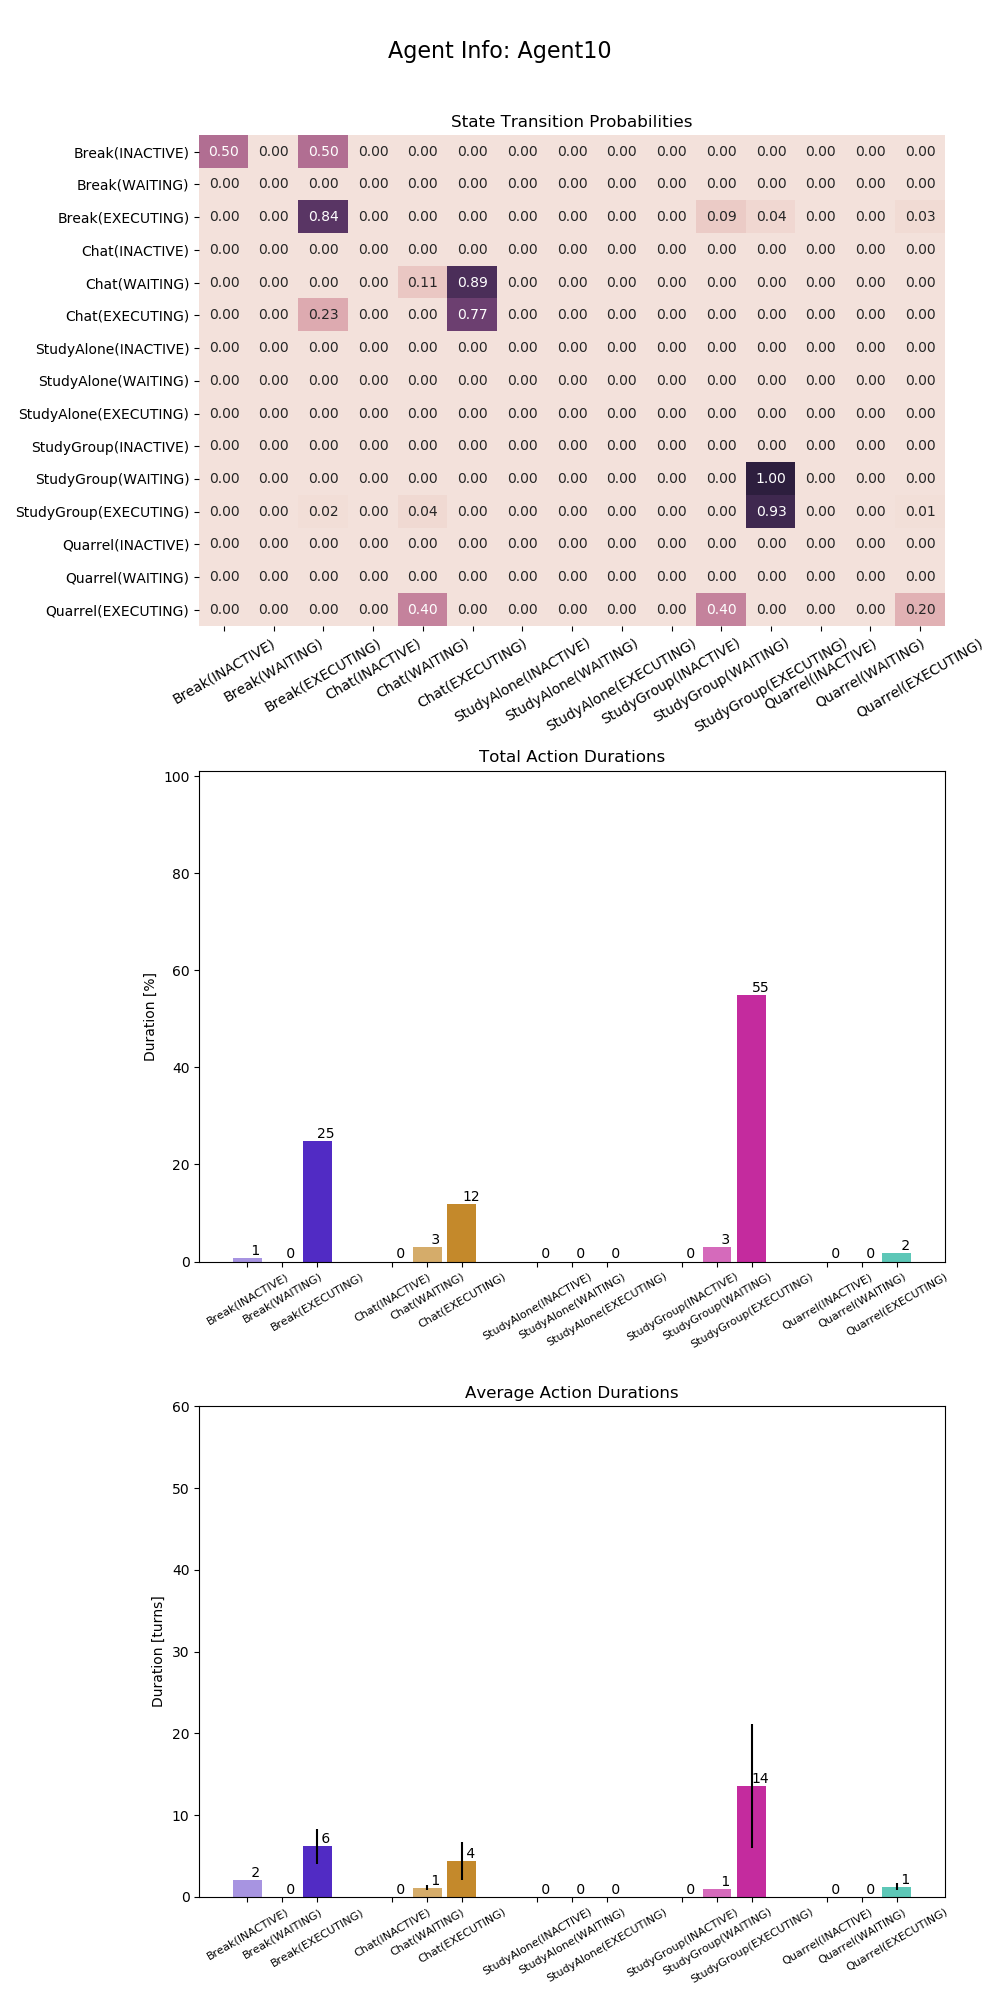
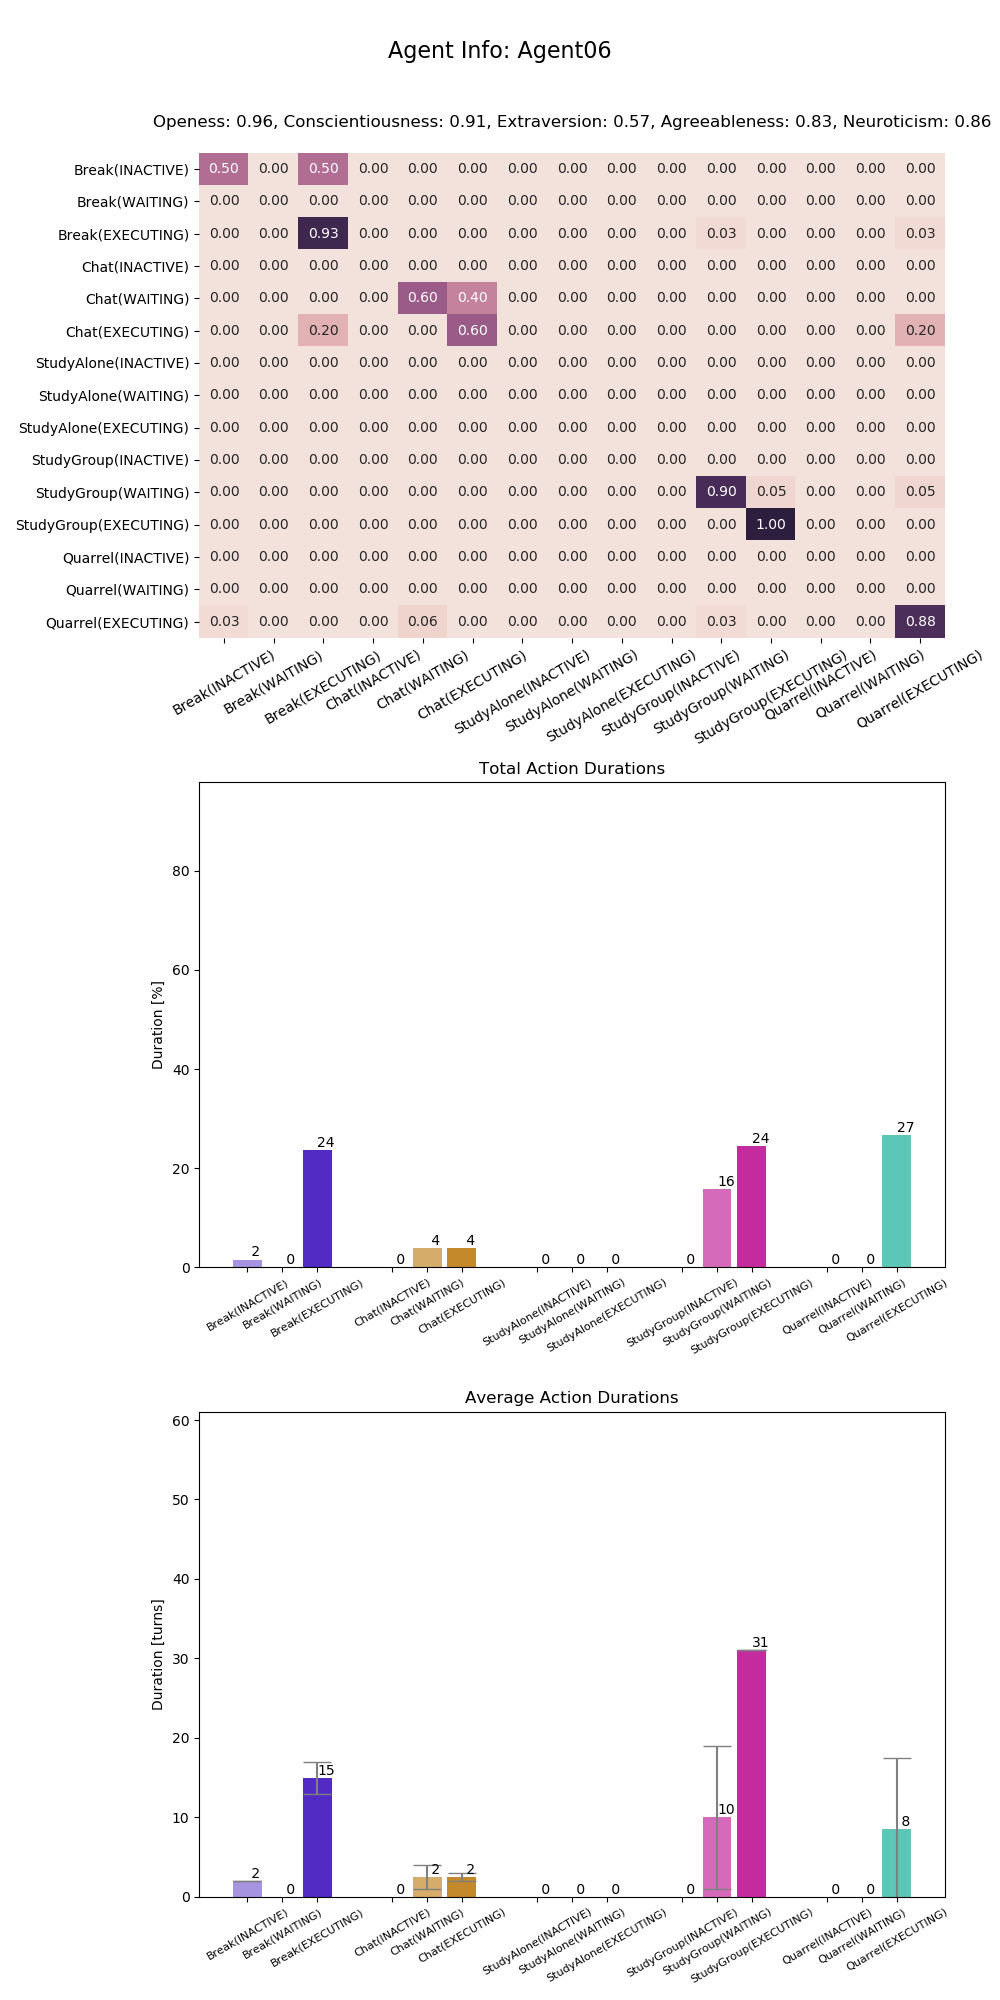
Showing personality in agent info plots. Close #53

diff --git a/tools/generatePlots.py b/tools/generatePlots.py
@@ -31,6 +31,13 @@ def main(argv):
     classroom_stats = pd.read_csv(classroom_stats_file)
     agents_stats = pd.read_csv(agents_stats_file)
 
+    # First line in agent stats are personality traits
+    personalities_df = agents_stats[agents_stats['Turn'] == -1][['Tag', 'Energy', 'Happiness', 'Attention', 'Action', 'Desire']].reset_index(drop=True)
+    personalities_df.rename(columns={'Energy': 'Openess', 'Happiness': 'Conscientiousness', 'Attention': 'Extraversion', 'Action': 'Agreeableness', 'Desire': 'Neuroticism'}, inplace=True)
+    personalities_df.set_index('Tag', inplace=True)
+    personalities = personalities_df.apply(lambda x: ', '.join(['%s: %s'%(k, v) for k, v in x.to_dict().items()]), axis=1)
+    
+
     out = '%s-ClassroomAggregates.png' % project_name
     print('Plot Classroom Aggregates to [%s] ...' % out)
     plotAggregatedStats(classroom_stats, out)
@@ -55,7 +62,7 @@ def main(argv):
     for agent, info in agent_infos.iterrows():
         out = '%s-%s-Stats.png' % (project_name, agent)
         print('Generating Agent Info plot: %s ...' % out)
-        plotAgentInfo(agent, info, out, agentBehaviors, behavior_colors, mean_ylimits=(0.0, max_mean_durations), relative_ylimits=(0.0, max_relative_durations))
+        plotAgentInfo(agent, personalities.loc[agent], info, out, agentBehaviors, behavior_colors, mean_ylimits=(0.0, max_mean_durations), relative_ylimits=(0.0, max_relative_durations))
 
     print('Finished!')
 
@@ -152,7 +159,7 @@ def calculate_duration_info(sequence_durations):
     return relative_duration, mean_durations, mean_durations_std
 
 
-def plotAgentInfo(name, info, output_file, actions, action_colors, mean_ylimits=(0.0, 1.0), relative_ylimits=(0.0, 1.0)):
+def plotAgentInfo(name, personality, info, output_file, actions, action_colors, mean_ylimits=(0.0, 1.0), relative_ylimits=(0.0, 1.0)):
     """
     Generate an Agent Info plot and write it to given location
     """
@@ -168,7 +175,8 @@ def plotAgentInfo(name, info, output_file, actions, action_colors, mean_ylimits=
     generateActionBarsPlot(info['mean_durations'], info['mean_durations_std'], axs[2], actions, action_colors, ylimits=mean_ylimits, title='Average Action Durations', ylabel='Duration [turns]')
 
     # Make sure everything fits into the figure 
-    fig.suptitle('Agent Info: %s' % name, fontsize=16)
+    fig.suptitle('Agent Info: %s' % (name), fontsize=16)
+    axs[0].set_title('%s\n' % personality)
     plt.tight_layout(rect=[0.0, 0.00, 1.0, 1.0-0.05])
     fig.savefig(output_file)
     plt.close(fig)
@@ -202,7 +210,7 @@ def generateActionBarsPlot(y, std, ax, actions, action_colors, ylimits=(0.0, 1.0
 
         for _x, _y, _std, a in zip(xs, ys, ss, alpha):
             xpos.append(_x)
-            ax.bar(_x, _y, width, yerr=_std, color=color, alpha=a)
+            ax.bar(_x, _y, width, yerr=_std, capsize=10, ecolor='grey', color=color, alpha=a)
             ax.text(_x+0.00, _y+0.01,'%2.0f'%_y, fontsize=10, color='black', va='bottom')
        
     ax.set_xticks(xpos)

diff --git a/Unity/Assets/Scripts/Ai/Agent.cs b/Unity/Assets/Scripts/Ai/Agent.cs
@@ -37,7 +37,7 @@ public class Agent : MonoBehaviour
 
     [HideInInspector] public Classroom classroom;
     [HideInInspector] public NavMeshAgent navagent;
-    [HideInInspector] public double turnCnt = 0;
+    [HideInInspector] public double turnCnt = -1;
 
     public Personality personality { get; protected set; }
 
@@ -91,6 +91,11 @@ public class Agent : MonoBehaviour
         Logger = GR.logger;
         classroom = GR.classroom;
 
+        // Print personality traits as first stats line
+        turnCnt = -1;
+        LogX(String.Format($"{personality.openess}|{personality.conscientousness}|{personality.extraversion}|{personality.agreeableness}|{personality.neuroticism}"), "S");
+
+        turnCnt = 0;
         LogInfo("Agent Personality: " + personality);
 
         //Agents AG = GameObject.Find("Agents").GetComponent<Agents>();

diff --git a/Unity/Assets/Scripts/Ai/Personality.cs b/Unity/Assets/Scripts/Ai/Personality.cs
@@ -2,11 +2,11 @@
 
 public class Personality
 {
-    public double neuroticism { get; protected set; }
-    public double extraversion { get; set; }
     public double openess { get; protected set; }
-    public double agreeableness { get; protected set; }
     public double conscientousness { get; protected set; }
+    public double extraversion { get; set; }
+    public double agreeableness { get; protected set; }
+    public double neuroticism { get; protected set; }
 
     public Personality(Random random=null)
     {
